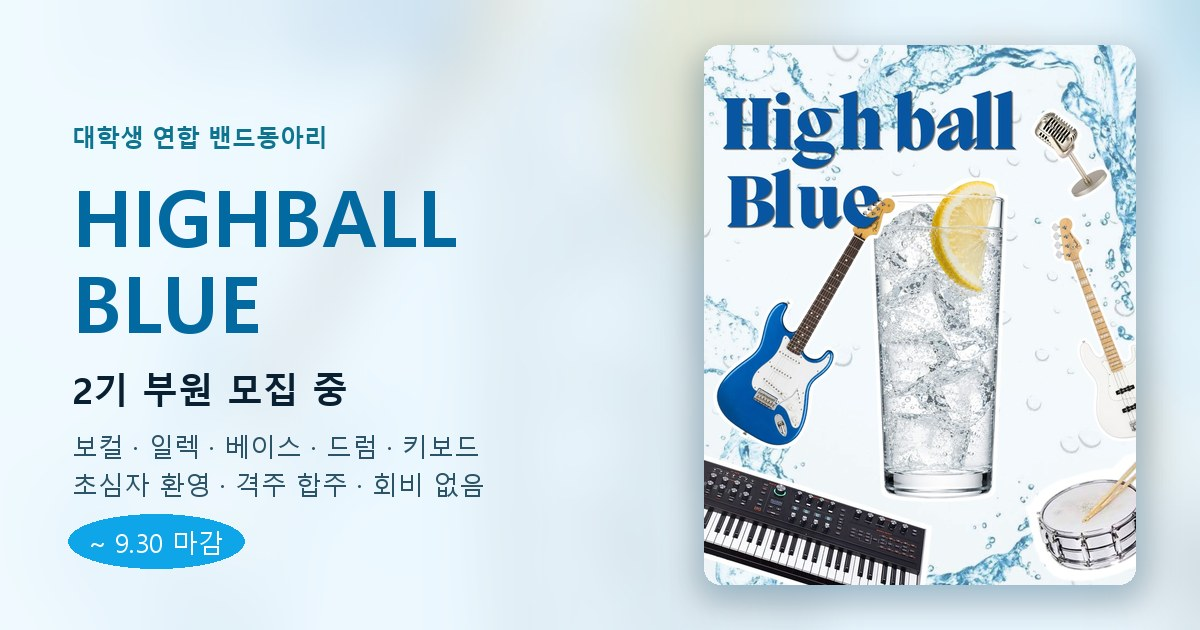
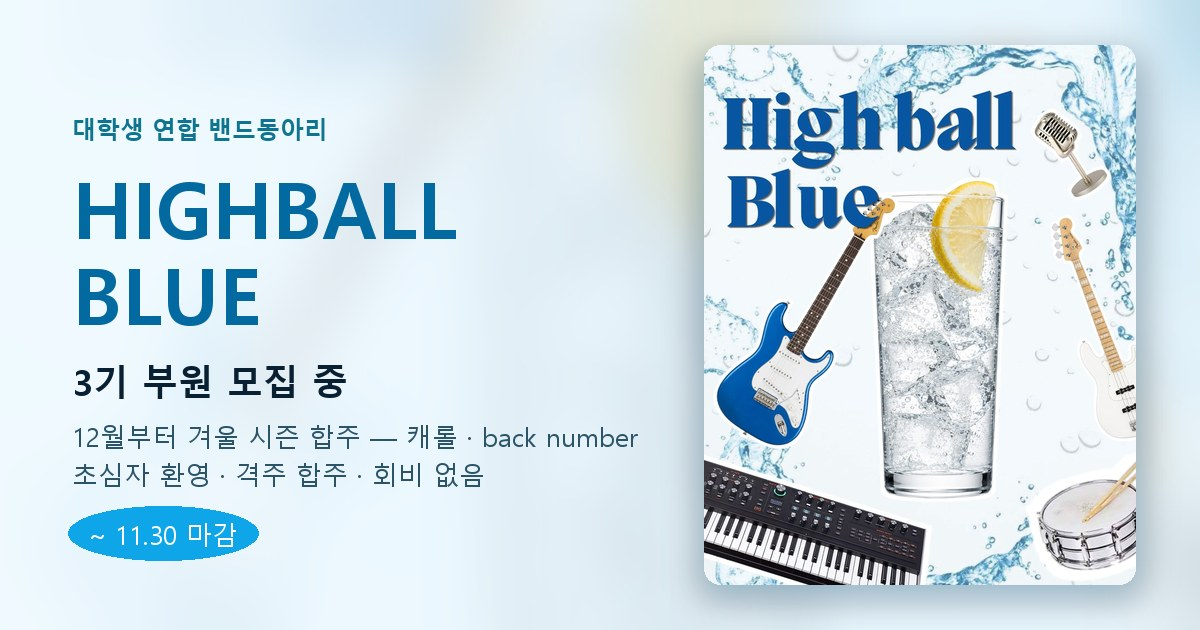
feat: 3기 모집 전환 + 겨울 시즌 세트리스트 + 문의 채널
3기 전환
- DEADLINE 2026-09-30 → 2026-11-30 (12월 활동 시작 기준)
- 본문·메타·OG의 '2기' 표기를 전부 '3기'로, 마감일 9.30 → 11.30
- 마감 후 전환 문구도 '3기 소식 받기' → '4기 소식 받기'로 한 칸씩 이동
- og-cover.jpg 재생성 — '3기 부원 모집 중 / 12월부터 겨울 시즌 / ~11.30 마감'
- 마감이 풀리면서 파트 배지(모집 중)와 사이트 상태의 모순도 해소됨

겨울 시즌 세트리스트
- 세트리스트 섹션 하단에 '❄ 겨울 시즌 — 12월 합주곡' 블록 추가, 반별 5곡씩
- back number를 고래반(クリスマスソング)·돌고래반(冬と春)에 배치
- 반마다 '추천' 표시로 첫 합주곡을 지정

체크리스트 보완
- 공개 문의 채널이 없던 문제 — 푸터와 모집 섹션에 문의 메일 노출
- 운영진 표기 자리 신설 (STAFF 배열, 비어 있으면 자동 숨김)

diff --git a/index.html b/index.html
@@ -4,7 +4,7 @@
 <meta charset="UTF-8">
 <meta name="viewport" content="width=device-width, initial-scale=1.0">
 <title>HIGHBALL BLUE — 청량한 20대 연합 취미밴드</title>
-<meta name="description" content="수도권 대학생 연합 밴드동아리 하이볼 블루. 거북이·고래·돌고래 3단계 맞춤 클래스, 격주 합주, 가입비·회비 없음. 2026년 2기 부원 모집 중 (~9.30).">
+<meta name="description" content="수도권 대학생 연합 밴드동아리 하이볼 블루. 거북이·고래·돌고래 3단계 맞춤 클래스, 격주 합주, 가입비·회비 없음. 3기 부원 모집 중 (~11.30), 12월부터 겨울 시즌 합주 시작.">
 <link rel="canonical" href="https://highball-blue.vercel.app/">
 <meta name="theme-color" content="#0EA5E9">
 <meta name="naver-site-verification" content="">
@@ -13,15 +13,15 @@
 <meta property="og:site_name" content="HIGHBALL BLUE">
 <meta property="og:locale" content="ko_KR">
 <meta property="og:url" content="https://highball-blue.vercel.app/">
-<meta property="og:title" content="HIGHBALL BLUE — 대학생 연합 밴드동아리 2기 모집">
-<meta property="og:description" content="보컬·일렉·베이스·드럼·키보드 모집 중. 초심자 거북이반부터 무대 중심 돌고래반까지, 격주 합주 · 회비 없음. ~9.30 마감">
+<meta property="og:title" content="HIGHBALL BLUE — 대학생 연합 밴드동아리 3기 모집">
+<meta property="og:description" content="보컬·일렉·베이스·드럼·키보드 모집 중. 12월부터 겨울 시즌 합주 — 캐롤과 back number까지. 초심자 환영 · 회비 없음. ~11.30 마감">
 <meta property="og:image" content="https://highball-blue.vercel.app/images/og-cover.jpg">
 <meta property="og:image:width" content="1200">
 <meta property="og:image:height" content="630">
-<meta property="og:image:alt" content="하이볼 블루 2기 부원 모집 — 초심자 환영, 격주 합주, 회비 없음">
+<meta property="og:image:alt" content="하이볼 블루 3기 부원 모집 — 12월 겨울 시즌 시작, 초심자 환영, 회비 없음">
 <meta name="twitter:card" content="summary_large_image">
-<meta name="twitter:title" content="HIGHBALL BLUE — 대학생 연합 밴드동아리 2기 모집">
-<meta name="twitter:description" content="초심자도 환영. 격주 합주 · 회비 없음 · ~9.30 마감">
+<meta name="twitter:title" content="HIGHBALL BLUE — 대학생 연합 밴드동아리 3기 모집">
+<meta name="twitter:description" content="12월부터 겨울 시즌 합주. 초심자 환영 · 회비 없음 · ~11.30 마감">
 <meta name="twitter:image" content="https://highball-blue.vercel.app/images/og-cover.jpg">
 <link rel="icon" href="/favicon.ico" sizes="32x32">
 <link rel="icon" type="image/png" sizes="192x192" href="/icons/icon-192.png">
@@ -757,6 +757,30 @@
   .set-list li:hover { background: rgba(186, 232, 255, 0.8); }
   .set-list .song { font-size: 0.92rem; font-weight: 600; color: var(--text-strong); }
   .set-list .artist { font-size: 0.78rem; font-weight: 500; color: var(--text-faint); white-space: nowrap; }
+  /* ── 겨울 시즌 블록 ── */
+  .season-divider { display: flex; align-items: center; gap: 1rem; margin: 3.5rem 0 1.5rem; }
+  .season-divider::before, .season-divider::after {
+    content: ''; flex: 1; height: 1px;
+    background: linear-gradient(90deg, transparent, rgba(14,165,233,0.35), transparent);
+  }
+  .season-label {
+    font-family: 'Space Grotesk', sans-serif; font-size: 1.05rem; font-weight: 700;
+    color: var(--text-strong); white-space: nowrap; letter-spacing: -0.01em;
+  }
+  .season-sub {
+    text-align: center; font-size: 0.88rem; font-weight: 450; color: var(--text-muted);
+    line-height: 1.7; margin-bottom: 1.75rem;
+  }
+  .season-sub strong { color: var(--blue-600); font-weight: 600; }
+  .set-card.is-winter { background: linear-gradient(170deg, #F7FCFF 0%, #FFFFFF 55%); }
+  .set-list li.pick { background: rgba(250, 204, 21, 0.14); }
+  .set-list li.pick .song::after {
+    content: '추천'; margin-left: 0.45rem; font-family: 'Space Mono', monospace;
+    font-size: 0.55rem; font-weight: 700; letter-spacing: 0.08em;
+    color: #8A5A00; background: rgba(250,204,21,0.35);
+    padding: 0.12rem 0.3rem; border-radius: 3px; vertical-align: 0.1em;
+  }
+
   .set-note { font-size: 0.8rem; font-weight: 450; color: var(--text-muted); line-height: 1.65; padding-top: 0.9rem; border-top: 1px dashed rgba(14,165,233,0.25); }
 
   /* ── ARTISTS ── */
@@ -923,6 +947,10 @@
     -webkit-background-clip: text; background-clip: text; -webkit-text-fill-color: transparent;
   }
   .footer-slogan { font-size: 0.85rem; color: var(--text-muted); margin-top: 0.5rem; font-weight: 450; }
+  .footer-staff {
+    font-size: 0.8rem; color: var(--text-faint); margin-top: 0.45rem; font-weight: 450;
+  }
+  .footer-staff b { color: var(--text-muted); font-weight: 600; }
   .footer-links { display: flex; flex-direction: column; gap: 0.5rem; align-items: flex-end; }
   .footer-links a {
     font-family: 'Space Mono', monospace; font-size: 0.65rem; letter-spacing: 0.15em;
@@ -1088,7 +1116,7 @@
   <h1 class="hero-title"><span class="l1">HIGHBALL</span><br><span class="l2">BLUE</span></h1>
   <p class="hero-subtitle">일상에 청량한 한 잔의 휴식을 더하는<br>20대 연합 취미밴드</p>
   <div class="hero-cta-group">
-    <a href="https://forms.gle/QJ2ubzY75XRUnh5k7" target="_blank" class="btn-primary" data-closed-text="3기 소식 받기">지원하기</a>
+    <a href="https://forms.gle/QJ2ubzY75XRUnh5k7" target="_blank" class="btn-primary" data-closed-text="4기 소식 받기">지원하기</a>
     <a href="#artists" class="btn-secondary">아티스트 보기</a>
   </div>
 </section>
@@ -1158,7 +1186,7 @@
             <span class="poster-fact-icon">📅</span>
             <div>
               <span class="poster-fact-label">Deadline</span>
-              <span class="poster-fact-value">9월 30일까지 2기 모집</span>
+              <span class="poster-fact-value">11월 30일까지 3기 모집</span>
             </div>
           </div>
           <div class="poster-fact">
@@ -1166,6 +1194,13 @@
             <div>
               <span class="poster-fact-label">Who</span>
               <span class="poster-fact-value">수도권 대학교 재학생 · 휴학생</span>
+            </div>
+          </div>
+          <div class="poster-fact">
+            <span class="poster-fact-icon">✉</span>
+            <div>
+              <span class="poster-fact-label">Contact</span>
+              <span class="poster-fact-value"><a href="mailto:bandwithme3@gmail.com" style="color:inherit">bandwithme3@gmail.com</a></span>
             </div>
           </div>
           <div class="poster-fact">
@@ -1178,7 +1213,7 @@
         </div>
 
         <div class="poster-cta-actions">
-          <a href="https://forms.gle/QJ2ubzY75XRUnh5k7" target="_blank" class="btn-primary" data-closed-text="3기 소식 받기 →">지원하기 →</a>
+          <a href="https://forms.gle/QJ2ubzY75XRUnh5k7" target="_blank" class="btn-primary" data-closed-text="4기 소식 받기 →">지원하기 →</a>
           <a href="https://www.youtube.com/@highballblue" target="_blank" class="btn-secondary">활동 영상 보기 ↗</a>
         </div>
       </div>
@@ -1298,6 +1333,70 @@
           <li><span class="song">Sweet Child O' Mine</span><span class="artist">Guns N' Roses</span></li>
         </ul>
         <p class="set-note">기술적 완성도와 밴드 전체의 호흡이 필요한 곡들이에요.</p>
+      </div>
+    </div>
+
+    <div class="season-divider fade-in">
+      <span class="season-label">❄ 겨울 시즌 — 12월 합주곡</span>
+    </div>
+    <p class="season-sub fade-in">
+      3기는 <strong>12월부터 겨울 시즌</strong>으로 시작해요. 캐롤과 겨울 발라드 위주로 골랐고,
+      <strong>back number</strong>는 반별로 한 곡씩 넣어뒀습니다. 반마다 <strong>추천</strong> 표시된 곡으로 첫 합주를 엽니다.
+    </p>
+
+    <div class="setlist-grid fade-in">
+      <div class="set-card set-turtle is-winter">
+        <div class="set-head">
+          <img src="images/chars/turtle.png" alt="거북이반" class="set-char">
+          <div>
+            <p class="set-name">🐢 거북이반</p>
+            <p class="set-tag">코드 몇 개로 끝나는 캐롤</p>
+          </div>
+        </div>
+        <ul class="set-list">
+          <li class="pick"><span class="song">Last Christmas</span><span class="artist">Wham!</span></li>
+          <li><span class="song">Antifreeze</span><span class="artist">검정치마</span></li>
+          <li><span class="song">미리 메리 크리스마스</span><span class="artist">아이유</span></li>
+          <li><span class="song">Run Rudolph Run</span><span class="artist">Chuck Berry</span></li>
+          <li><span class="song">선물</span><span class="artist">멜로망스</span></li>
+        </ul>
+        <p class="set-note">네 코드가 끝까지 반복돼요. 12월에 처음 합주해도 무대에 올릴 수 있는 곡들입니다.</p>
+      </div>
+
+      <div class="set-card set-whale is-winter">
+        <div class="set-head">
+          <img src="images/chars/whale.png" alt="고래반" class="set-char">
+          <div>
+            <p class="set-name">🐋 고래반</p>
+            <p class="set-tag">파트가 맞물릴 때 예뻐지는 곡</p>
+          </div>
+        </div>
+        <ul class="set-list">
+          <li class="pick"><span class="song">クリスマスソング (크리스마스송)</span><span class="artist">back number</span></li>
+          <li><span class="song">녹아내려요</span><span class="artist">DAY6</span></li>
+          <li><span class="song">クリスマス・イブ</span><span class="artist">야마시타 타츠로</span></li>
+          <li><span class="song">Santa Claus Is Comin' to Town</span><span class="artist">Bruce Springsteen</span></li>
+          <li><span class="song">크리스마스니까</span><span class="artist">성시경 · 박효신 · 이석훈 · 서인국</span></li>
+        </ul>
+        <p class="set-note">back number의 겨울 대표곡으로 시작해요. 보컬이 둘이면 크리스마스니까로 화음도 쌓아볼 수 있어요.</p>
+      </div>
+
+      <div class="set-card set-dolphin is-winter">
+        <div class="set-head">
+          <img src="images/chars/dolphin.png" alt="돌고래반" class="set-char">
+          <div>
+            <p class="set-name">🐬 돌고래반</p>
+            <p class="set-tag">버스킹에서 터뜨릴 곡</p>
+          </div>
+        </div>
+        <ul class="set-list">
+          <li class="pick"><span class="song">冬と春 (겨울과 봄)</span><span class="artist">back number</span></li>
+          <li><span class="song">All I Want for Christmas Is You</span><span class="artist">Mariah Carey</span></li>
+          <li><span class="song">눈의 꽃</span><span class="artist">박효신</span></li>
+          <li><span class="song">Fairytale of New York</span><span class="artist">The Pogues</span></li>
+          <li><span class="song">Happy Xmas (War Is Over)</span><span class="artist">John Lennon</span></li>
+        </ul>
+        <p class="set-note">보컬 난이도와 편곡 욕심을 모두 부릴 수 있는 곡들. 12월 실내 버스킹용으로 골랐어요.</p>
       </div>
     </div>
   </div>
@@ -1451,7 +1550,7 @@
 
 <section class="recruit" id="join">
   <div class="container fade-in">
-    <p class="section-eyebrow" data-closed-text="// 2기 모집 마감">// 부원 모집 중 (~9.30)</p>
+    <p class="section-eyebrow" data-closed-text="// 3기 모집 마감">// 3기 부원 모집 중 (~11.30)</p>
     <h2 class="section-title">합류할 준비<br>됐나요?</h2>
     <div class="info-grid">
       <div class="info-item"><p class="info-label">모집 파트</p><p class="info-value">보컬 2 · 일렉기타 2<br>베이스 1 · 드럼 1 · 키보드 2</p></div>
@@ -1462,7 +1561,7 @@
       <div class="info-item"><p class="info-label">모집 절차</p><p class="info-value">구글폼 → 비대면 인터뷰<br><span style="color: var(--text-faint); font-size: 0.8rem;">약 5분, 부담 없이!</span></p></div>
     </div>
     <div style="margin-top: 3.5rem;">
-      <a href="https://forms.gle/QJ2ubzY75XRUnh5k7" target="_blank" class="btn-primary" data-closed-text="3기 소식 받기 ↗">구글 폼으로 지원하기 ↗</a>
+      <a href="https://forms.gle/QJ2ubzY75XRUnh5k7" target="_blank" class="btn-primary" data-closed-text="4기 소식 받기 ↗">구글 폼으로 지원하기 ↗</a>
     </div>
   </div>
 </section>
@@ -1478,7 +1577,7 @@
       <span class="sig-plan-icon">🎙</span>
       <p class="sig-plan-text">
         지금 들리는 두 곡은 <strong>데모 스케치</strong>예요.
-        2기와 함께 <strong>코드를 새로 따고, 직접 녹음하고, 후가공까지</strong> 거쳐
+        3기와 함께 <strong>코드를 새로 따고, 직접 녹음하고, 후가공까지</strong> 거쳐
         하이볼 블루의 음원으로 완성할 예정입니다. 완성된 곡은 <strong>음원 아카이빙</strong>으로 남겨요.
       </p>
     </div>
@@ -1649,11 +1748,13 @@
   <div class="footer-inner">
     <div>
       <p class="footer-logo">HIGHBALL BLUE</p>
-      <p class="footer-slogan" data-closed-text="청량한 20대 연합 취미밴드 — 3기 모집 준비 중">청량한 20대 연합 취미밴드 — 2기 모집 중</p>
+      <p class="footer-slogan" data-closed-text="청량한 20대 연합 취미밴드 — 4기 모집 준비 중">청량한 20대 연합 취미밴드 — 3기 모집 중</p>
+      <p class="footer-staff" id="footerStaff" style="display:none"></p>
     </div>
     <div class="footer-links">
       <a href="https://www.youtube.com/@highballblue" target="_blank">YouTube</a>
       <a href="https://forms.gle/QJ2ubzY75XRUnh5k7" target="_blank">지원 폼</a>
+      <a href="mailto:bandwithme3@gmail.com">문의 메일</a>
     </div>
     <p class="footer-copy">© 2026 Highball Blue. All rights reserved.</p>
   </div>
@@ -1662,9 +1763,9 @@
 <div class="sticky-cta" id="stickyCta">
   <div class="sticky-cta-copy">
     <p class="sticky-cta-dday" id="stickyDday">모집 마감 D-–</p>
-    <p class="sticky-cta-text" data-closed-text="2기 모집이 마감됐어요">2기 부원 모집 중 🍹</p>
+    <p class="sticky-cta-text" data-closed-text="3기 모집이 마감됐어요">3기 부원 모집 중 🍹</p>
   </div>
-  <a href="https://forms.gle/QJ2ubzY75XRUnh5k7" target="_blank" rel="noopener" class="btn-primary" data-closed-text="3기 소식 받기">지원하기</a>
+  <a href="https://forms.gle/QJ2ubzY75XRUnh5k7" target="_blank" rel="noopener" class="btn-primary" data-closed-text="4기 소식 받기">지원하기</a>
 </div>
 
 <div class="modal-overlay" id="modalOverlay" onclick="if(event.target===this)closeModal()">
@@ -2150,6 +2251,19 @@ document.getElementById('faqMore').addEventListener('click', () => {
   if (!faqExpanded) document.getElementById('faq').scrollIntoView({ block: 'start' });
 });
 
+/* ── 운영진 ──────────────────────────────────────────────────
+   이름과 역할을 채우면 푸터에 한 줄로 표시됩니다. 비어 있으면 아예 숨겨집니다.
+   외부에서 "누가 운영하는 모임인지" 확인할 수 있어야 해서 넣어둔 자리입니다.
+   예: [{ role: '운영장', name: '김0은' }, { role: '총무', name: '이0록' }]        */
+const STAFF = [];
+
+(function renderStaff() {
+  if (!STAFF.length) return;
+  const el = document.getElementById('footerStaff');
+  el.innerHTML = '운영진 · ' + STAFF.map(p => `<b>${p.name}</b> ${p.role}`).join(' · ');
+  el.style.display = '';
+})();
+
 /* ── 부원 후기 ────────────────────────────────────────────────
    text 를 채운 항목만 화면에 나옵니다. 전부 비어 있으면 후기 섹션과
    네비의 Members 항목이 통째로 숨겨지므로, 지금 이대로 배포해도 안전합니다.
@@ -2224,7 +2338,7 @@ const PART_SLOTS = {
   bass:    1,   // 베이스
   drum:    1,   // 드럼
   keys:    2,   // 키보드
-};
+};   // 3기 기준. 자리가 차는 대로 숫자만 줄이세요.
 
 document.querySelectorAll('.part-card[data-part]').forEach(card => {
   const n = PART_SLOTS[card.dataset.part];
@@ -2262,7 +2376,7 @@ navLinks.addEventListener('click', e => {
 });
 
 /* ── 모집 마감 D-day + 하단 고정 CTA ── */
-const DEADLINE = new Date('2026-09-30T23:59:59+09:00');
+const DEADLINE = new Date('2026-11-30T23:59:59+09:00');
 
 /* 마감 후 지원 버튼이 향할 곳.
    3기 대기 폼을 만들면 그 주소로 바꾸세요. 지금은 유튜브 채널로 보냅니다. */
